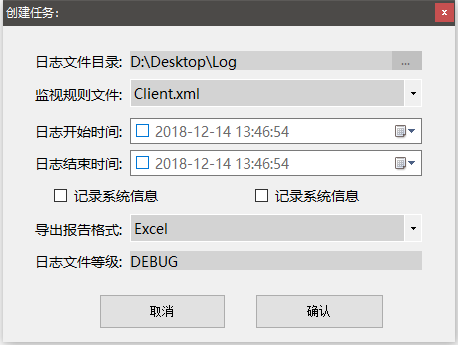
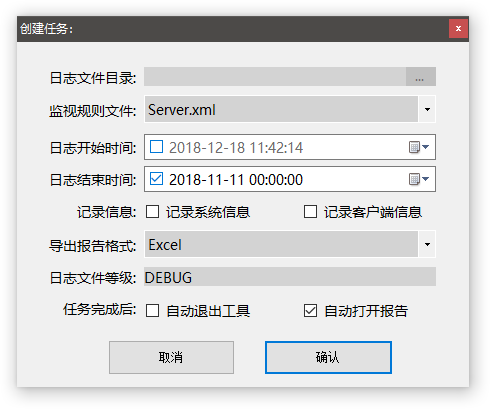
更新文档；

diff --git a/README.md b/README.md
@@ -195,16 +195,18 @@ readToEnd(yes)->generalRegex
 
 **任务参数说明：**
 
-| 参数名称 | 说明               | 备注     | 格式         | 示例                              |
-| -------- | ------------------ | -------- | ------------ | --------------------------------- |
-| logdir   | 日志文件存放目录   | **必选** | 绝对路径     | C:\TEST_DIR 或 "C:\TEST DIR"      |
-| monitor  | 监视规则文件名称   | **必选** | 相对路径     | monitor.xml                       |
-| start    | 日志开始时间       | **选填*  | 24小时格式   | "2018-10-01 17:30:00"             |
-| finish   | 日志结束时间       | **选填*  | 24小时格式   | "2018-11-11 08:40:00"             |
-| sysinfo  | 是否记录系统信息   | **选填*  | 可忽略大小写 | true 或 false                     |
-| cltinfo  | 是否记录客户端信息 | **选填*  | 可忽略大小写 | true 或 false                     |
-| report   | 导出报告格式       | **选填*  | 默认:excel   | excel 或 html 或 word             |
-| level    | 日志文件的等级     | **选填*  | 默认:debug   | debug 或 trace 或 info 或 pref 等 |
+| 参数名称 | 说明               | 备注     | 格式       | 示例                              |
+| -------- | ------------------ | -------- | ---------- | --------------------------------- |
+| logdir   | 日志文件存放目录   | **必选** | 绝对路径   | C:\TEST_DIR 或 "C:\TEST DIR"      |
+| monitor  | 监视规则文件名称   | **必选** | 相对路径   | monitor.xml                       |
+| start    | 日志开始时间       | **选填*  | 24小时格式 | "2018-10-01 17:30:00"             |
+| finish   | 日志结束时间       | **选填*  | 24小时格式 | "2018-11-11 08:40:00"             |
+| sysinfo  | 是否记录系统信息   | **选填*  | 默认:false | true 或 false                     |
+| cltinfo  | 是否记录客户端信息 | **选填*  | 默认:false | true 或 false                     |
+| report   | 导出报告格式       | **选填*  | 默认:excel | excel 或 html 或 word             |
+| level    | 日志文件的等级     | **选填*  | 默认:debug | debug 或 trace 或 info 或 pref 等 |
+| exit     | 自动退出           | **选填*  | 默认:false | true 或 false                     |
+| open     | 自动打开报告       | **选填*  | 默认:true  | true 或 false                     |
 
 	**注意：参数数据内存在空格时，需要在参数外加英文双引号嵌套起来；*
 
@@ -223,8 +225,9 @@ readToEnd(yes)->generalRegex
 
 #### 5.1.2.GUI任务工厂
 
+	当未传入参数时，将会直接打开GUI任务创建窗口，供使用者使用窗口配置任务参数，以更安全的方式创建任务；
 
-	  当未传入参数或参数传入出现错误时，会在控制台输出具体的参数错误原因，并弹出GUI任务创建窗口，供使用者使用窗口配置任务参数，以更安全的方式创建任务；
+	当参数传入出现错误时，会在控制台输出具体的参数错误原因并将已有参数传给GUI任务创建窗口，在任务创建窗口继续配置任务参数；
 
 	*GUI任务工厂截图：*
 
